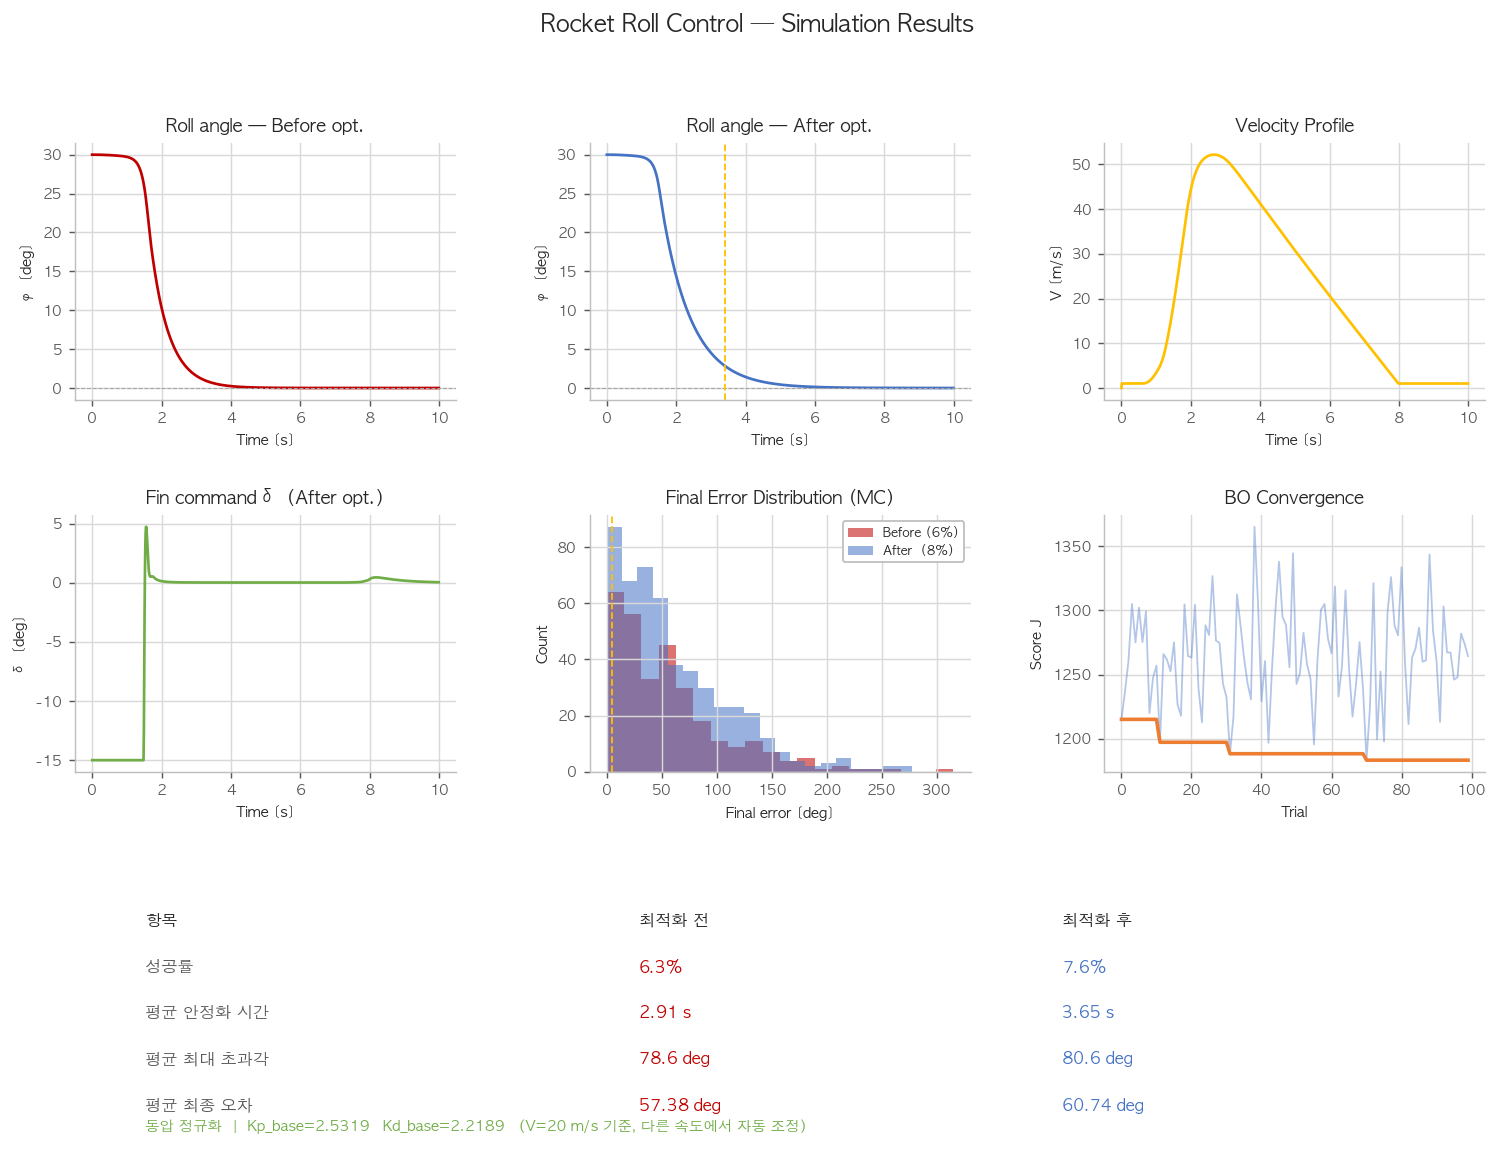
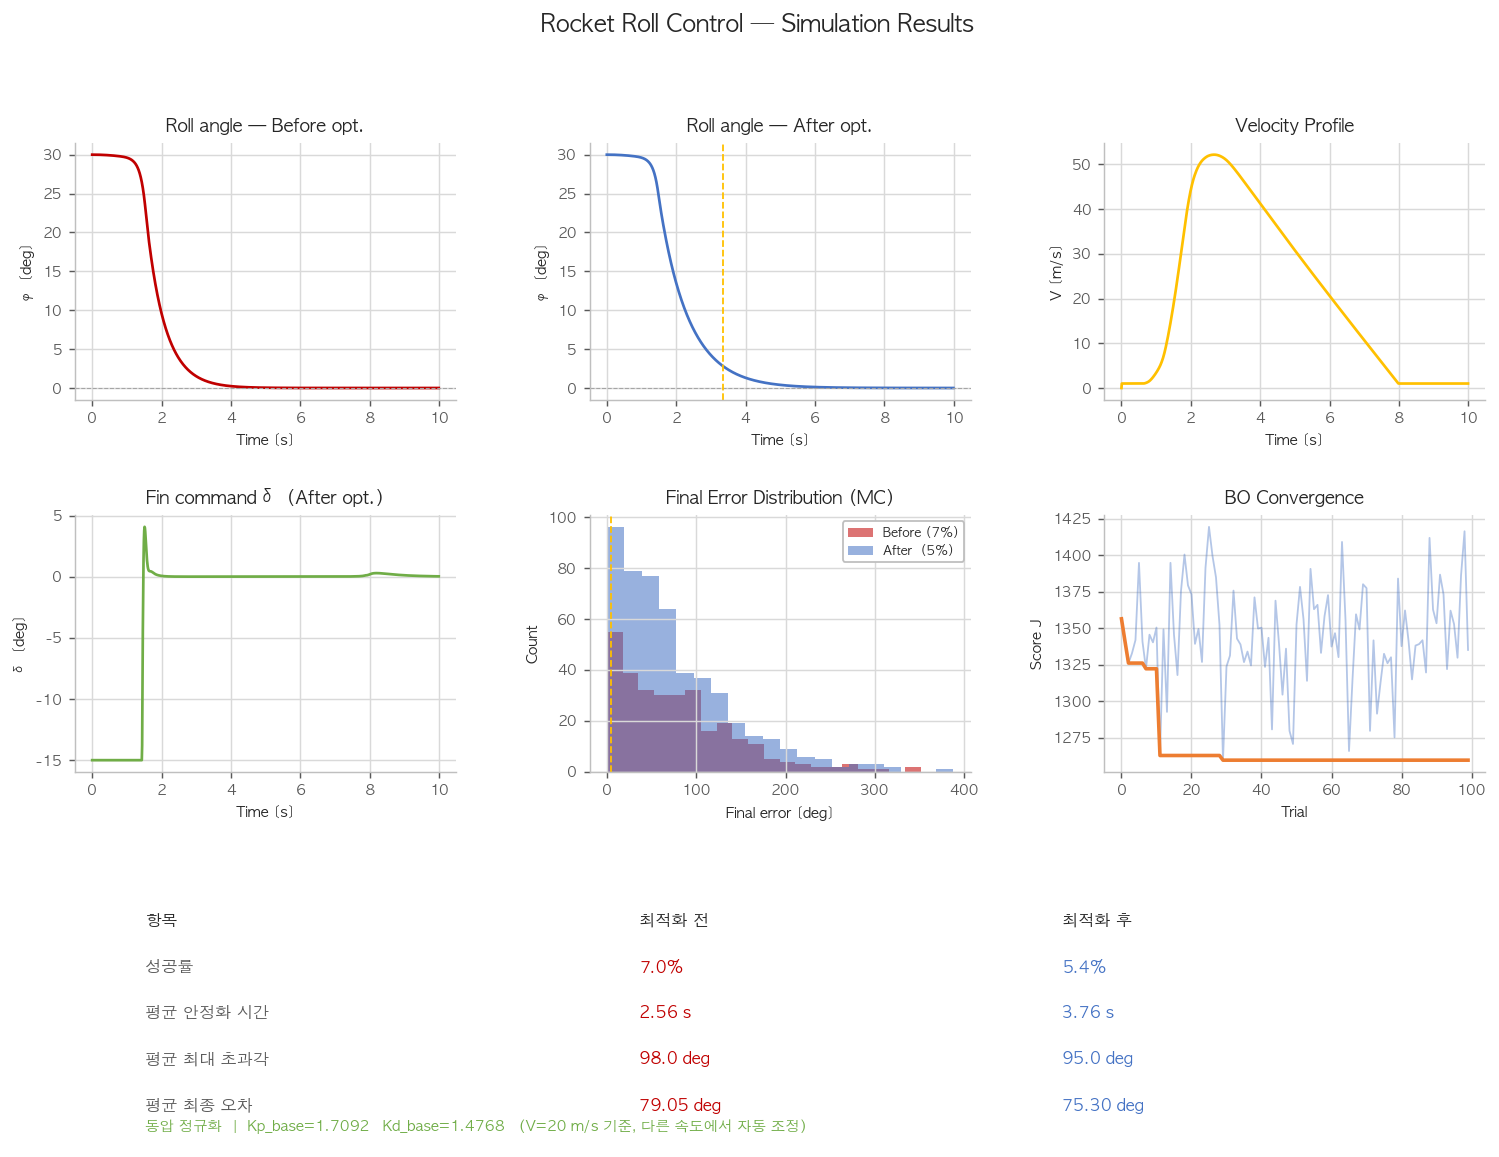
kp_base kd_base 3d그래프 생성기능 추가

diff --git a/rocket/Simulator/optimization.py b/rocket/Simulator/optimization.py
@@ -144,8 +144,109 @@ def run_optimization(n_trials: int = 50) -> dict:
 # ─────────────────────────────────────────
 # 단독 실행 테스트
 # ─────────────────────────────────────────
+def visualize_3d_optimization_surface(study):
+    """
+    최적화 과정을 3D 표면 그래프로 시각화
+
+    X축: Kp_base, Y축: Kd_base, Z축: Score J
+    """
+    import matplotlib.pyplot as plt
+    from mpl_toolkits.mplot3d import Axes3D
+    from scipy.interpolate import griddata
+
+    trials = study.trials
+    kp_vals = []
+    kd_vals = []
+    j_vals  = []
+
+    for t in trials:
+        if t.value is not None:
+            kp_vals.append(t.params.get("Kp_base"))
+            kd_vals.append(t.params.get("Kd_base"))
+            j_vals.append(t.value)
+
+    kp_vals = np.array(kp_vals)
+    kd_vals = np.array(kd_vals)
+    j_vals  = np.array(j_vals)
+
+    # 그리드 생성
+    kp_grid = np.linspace(kp_vals.min() - 0.2, kp_vals.max() + 0.2, 50)
+    kd_grid = np.linspace(kd_vals.min() - 0.2, kd_vals.max() + 0.2, 50)
+    KP, KD = np.meshgrid(kp_grid, kd_grid)
+
+    # Interpolation으로 표면 생성
+    J = griddata(
+        (kp_vals, kd_vals), j_vals,
+        (KP, KD),
+        method='cubic'
+    )
+
+    # 3D 플롯
+    fig = plt.figure(figsize=(14, 5))
+
+    # ── 서브플롯 1: 3D 표면 ──
+    ax1 = fig.add_subplot(121, projection='3d')
+    surf = ax1.plot_surface(KP, KD, J, cmap='viridis', alpha=0.8, edgecolor='none')
+
+    # Trial 점들 표시
+    ax1.scatter(kp_vals, kd_vals, j_vals, c='red', s=20, alpha=0.6, label='Trials')
+
+    # 최적점 표시
+    best_idx = np.argmin(j_vals)
+    ax1.scatter(
+        [kp_vals[best_idx]], [kd_vals[best_idx]], [j_vals[best_idx]],
+        c='gold', s=200, marker='*', edgecolors='black', linewidth=1.5,
+        label=f'Best (J={j_vals[best_idx]:.2f})', zorder=10
+    )
+
+    ax1.set_xlabel("Kp_base", fontsize=10, labelpad=8)
+    ax1.set_ylabel("Kd_base", fontsize=10, labelpad=8)
+    ax1.set_zlabel("Score J", fontsize=10, labelpad=8)
+    ax1.set_title("3D 최적화 표면", fontsize=11, fontweight='bold')
+    ax1.view_init(elev=25, azim=45)
+    ax1.legend(fontsize=8)
+
+    # ── 서브플롯 2: 등고선도 (Contour) ──
+    ax2 = fig.add_subplot(122)
+    contour = ax2.contourf(KP, KD, J, levels=20, cmap='viridis', alpha=0.8)
+    contour_lines = ax2.contour(KP, KD, J, levels=10, colors='black', alpha=0.3, linewidths=0.5)
+    ax2.clabel(contour_lines, inline=True, fontsize=7)
+
+    # Trial 점들
+    scatter = ax2.scatter(kp_vals, kd_vals, c=j_vals, cmap='Reds',
+                         s=30, alpha=0.6, edgecolors='black', linewidth=0.5)
+
+    # 최적점
+    ax2.scatter(
+        [kp_vals[best_idx]], [kd_vals[best_idx]],
+        c='gold', s=300, marker='*', edgecolors='black', linewidth=2,
+        zorder=10
+    )
+
+    # 최적점 텍스트
+    ax2.annotate(
+        f"Optimal\nKp={kp_vals[best_idx]:.3f}\nKd={kd_vals[best_idx]:.3f}",
+        xy=(kp_vals[best_idx], kd_vals[best_idx]),
+        xytext=(kp_vals[best_idx] + 0.3, kd_vals[best_idx] + 0.3),
+        fontsize=9, fontweight='bold',
+        bbox=dict(boxstyle='round,pad=0.3', facecolor='yellow', alpha=0.7),
+        arrowprops=dict(arrowstyle='->', connectionstyle='arc3,rad=0.3', lw=1.5)
+    )
+
+    ax2.set_xlabel("Kp_base", fontsize=10)
+    ax2.set_ylabel("Kd_base", fontsize=10)
+    ax2.set_title("최적화 공간 (등고선도)", fontsize=11, fontweight='bold')
+    cbar = plt.colorbar(contour, ax=ax2)
+    cbar.set_label("Score J", fontsize=9)
+
+    plt.tight_layout()
+    return fig
+
+
 if __name__ == "__main__":
     import matplotlib.pyplot as plt
+    from mpl_toolkits.mplot3d import Axes3D
+    from scipy.interpolate import griddata
     from utils import set_korean_font, set_excel_style, XL_BLUE, XL_ORANGE, XL_RED, XL_GREEN, XL_YELLOW
     set_korean_font()
     set_excel_style()
@@ -199,8 +300,17 @@ if __name__ == "__main__":
     out_path = os.path.join(out_dir, "optimization_result.png")
     plt.savefig(out_path, dpi=120, facecolor="white")
 
+    # ── 시각화 2: 3D 최적화 표면 ──
+    print("\n  3D 최적화 표면 생성 중...")
+    fig_3d = visualize_3d_optimization_surface(study)
+    out_path_3d = os.path.join(out_dir, "optimization_3d_surface.png")
+    fig_3d.savefig(out_path_3d, dpi=120, facecolor="white", bbox_inches='tight')
+    print(f"  저장: {out_path_3d}")
+
     # ── 최적 gain 출력 ──
     print("\n  [controller.py에 붙여넣을 최적 GAIN 값]")
     print(f"  KP_BASE = {Kp_best:.4f}  # V=20 m/s 기준")
     print(f"  KD_BASE = {Kd_best:.4f}  # V=20 m/s 기준")
-    print(f"\n  그래프 저장: {out_path}")
+    print(f"\n  저장된 그래프:")
+    print(f"    optimization_result.png")
+    print(f"    optimization_3d_surface.png  ← 3D 표면 & 등고선도")

diff --git a/rocket/Simulator/main.py b/rocket/Simulator/main.py
@@ -27,7 +27,7 @@ from rocket_model import RocketModel, DEFAULT_PARAMS
 from controller   import PDController
 from simulator    import Simulator, velocity_profile
 from monte_carlo  import MonteCarlo, print_stats
-from optimization import run_optimization
+from optimization import run_optimization, visualize_3d_optimization_surface
 
 # ─────────────────────────────────────────
 # 설정
@@ -431,6 +431,16 @@ if __name__ == "__main__":
     stats_after = opt_result["final_stats"]
     study       = opt_result["study"]
 
+    # ── 3D 최적화 표면 생성 ──
+    print(f"\n{'='*55}")
+    print(f"  3D 최적화 표면 생성 중...")
+    print(f"{'='*55}")
+    fig_3d = visualize_3d_optimization_surface(study)
+    path_3d = os.path.join(OUTPUTS_DIR, "optimization_3d_surface.png")
+    fig_3d.savefig(path_3d, dpi=120, facecolor="white", bbox_inches='tight')
+    print(f"  저장: {path_3d}")
+    plt.close(fig_3d)
+
     # 최적 gain으로 단일 시뮬레이션
     rocket_final = RocketModel()
     ctrl_final   = PDController(Kp_base=best_kp, Kd_base=best_kd)
@@ -457,7 +467,10 @@ if __name__ == "__main__":
     print(f"  성공률  {stats_before['success_rate']:.1f}%  →  "
           f"{stats_after['success_rate']:.1f}%  🎯")
     print(f"\n  저장된 파일:")
-    print(f"    final_result.png  ← 전체 결과 요약 그래프")
+    print(f"    final_result.png")
+    print(f"    trajectories_grid.png")
+    print(f"    trajectories_overlay.png")
+    print(f"    optimization_3d_surface.png  ← 3D 최적화 표면 & 등고선도")
     print(f"\n  최적 gain (controller.py에 반영):")
     print(f"    KP_BASE = {best_kp:.4f}")
     print(f"    KD_BASE = {best_kd:.4f}")
